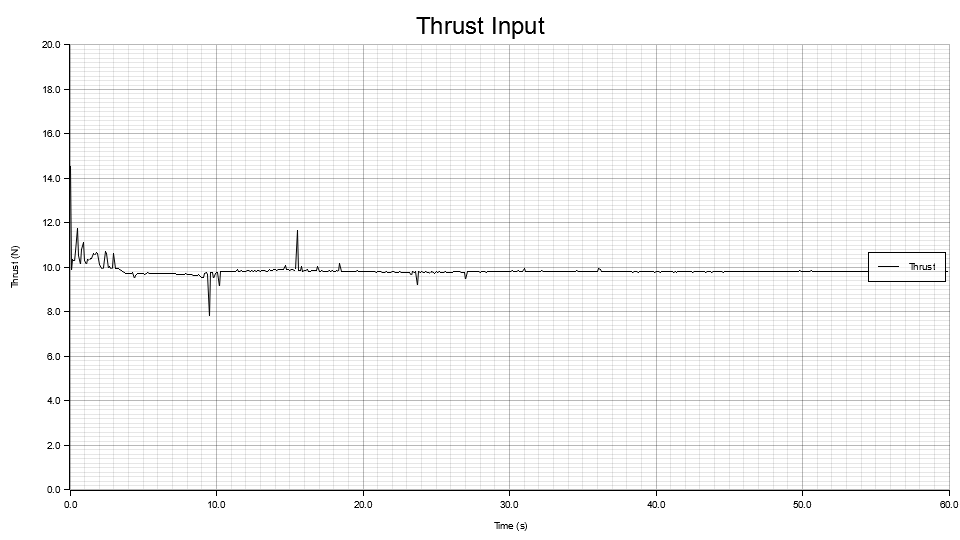
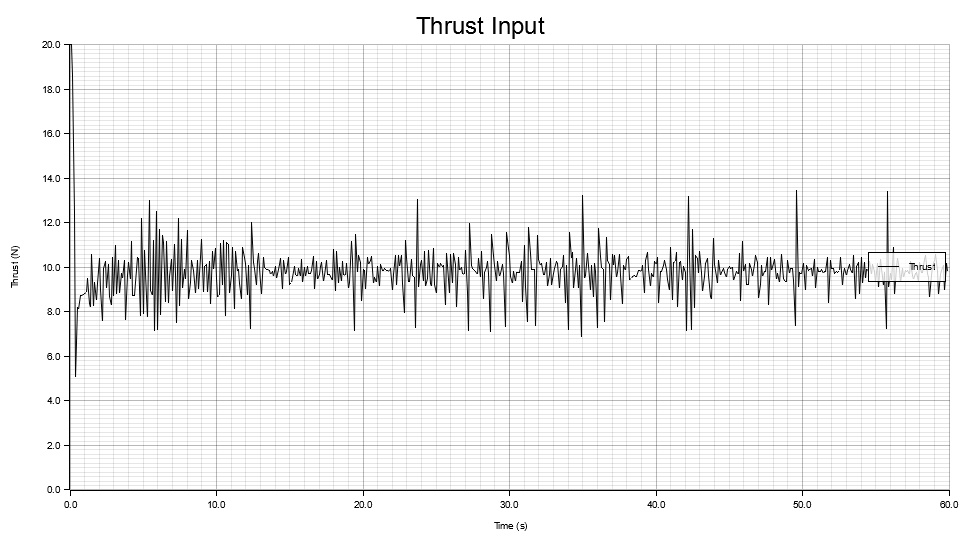
Refactor MPC QP solver and tune optimization parameters
Replaces the old trajectory cost and gradient with new QP cost and gradient functions. Replace automatic differentiation via finite difference with the analytical derivative of the quadratic program's objective function. Tune solver parameters based on max number of iterations and tolerance.

Issues:
Is faster than the old implementation for solving but the control input for thrust is noisier. May consider changing max number of iterations and tolerance to get better control but this will likely result in a slow down in computation.

Changed region(s): [[0.0625, 0.4148, 1.0, 0.6519], [0.0625, 0.3259, 0.0938, 0.3852]]

diff --git a/MPC/src/mpc_crate.rs b/MPC/src/mpc_crate.rs
@@ -5,7 +5,9 @@ use ndarray::{Array1, Array2};
 use ndarray::s;
 use ndarray_linalg::Inverse;
 use ndarray_linalg::Norm;
+use ndarray::ArrayView1;
 use optimization_engine::{panoc::*, *};
+use std::time::Instant;
 
 pub fn dynamics(x: &Array1<f64>, u: &Array1<f64>) -> Array1<f64> {
     // let mut x_next = Array1::<f64>::zeros(x.len());
@@ -354,12 +356,13 @@ fn nmpc_step(x0: &Array1<f64>, U_init: &Vec<Array1<f64>>, xref_traj: &Vec<Array1
     // initialize xs trajectory
     let mut xs = vec![Array1::<f64>::zeros(x0.len()); N + 1];
     let mut U = U_init.clone();
+    let start_time = Instant::now();
     for _ in 0..sqp_iters {
         xs = rollout(x0, &U);
         let (A_seq, B_seq) = linearize_trajectory(&xs, &U);
         let (H, g, dU_min, dU_max, _Su, _Q_bar, _R_bar) = assemble_qp_increment(&xs, &U, &xref_traj, &A_seq, &B_seq, &Q, &R, &QN, &u_min, &u_max);
         let dU0 = Array1::<f64>::zeros(m * N);
-        let dU = solve_qp_pgd(&H, &g, &dU_min, &dU_max, &dU0, 30, alpha_pgd);
+        let dU = solve_qp_pgd(&H, &g, &dU_min, &dU_max, &dU0, 20, alpha_pgd);
         let mut flatU = Array1::<f64>::zeros(m * N);
         // flatten U
         // Flatten U into flatU
@@ -391,120 +394,82 @@ fn nmpc_step(x0: &Array1<f64>, U_init: &Vec<Array1<f64>>, xref_traj: &Vec<Array1
         // test for convergence ?
         
     }
+    // print time taken
+    let duration = start_time.elapsed();
+    println!("PGD solve frequency {:?}Hz", 1.0 / duration.as_secs_f64());
 
     (U, xs)
 }
 
 // Using OpEn to solve
 
-// create cost function (essentialy the same as true_cost)
-pub fn trajectory_cost(x0: &Array1<f64>, U: &Vec<Array1<f64>>, xref_traj: &Vec<Array1<f64>>, Q: &Array2<f64>, R: &Array2<f64>, QN: &Array2<f64>) -> f64 {
-    let xs = rollout(x0, U);
-    let N = U.len();
-    let mut cost = 0.0;
-
-    // add up stage costs
-    for k in 0..N {
-        let x_diff = &xs[k+1] - &xref_traj[k+1];
-        cost += x_diff.t().dot(Q).dot(&x_diff);
-        cost += U[k].t().dot(R).dot(&U[k]);
-    }
-
-    // add terminal cost
-    let xN_diff = &xs[N] - &xref_traj[N];
-    cost += xN_diff.t().dot(QN).dot(&xN_diff);
-
+pub fn QP_cost(H: &Array2<f64>, g: &Array1<f64>, U: &Array1<f64>) -> f64 {
+    let cost = 0.5 * U.t().dot(H).dot(U) + g.t().dot(U);
     cost
 }
-
-pub fn trajectory_cost_gradient(x0: &Array1<f64>, U: &Vec<Array1<f64>>, xref_traj: &Vec<Array1<f64>>, Q: &Array2<f64>, R: &Array2<f64>, QN: &Array2<f64>, grad_U: &mut Vec<Array1<f64>>) {
-    let N = U.len();
-    let m = U[0].len();
-    let eps = 1e-6;
-
-    // compute Jacobian via central difference
-    for k in 0..N {
-        for i in 0..m {
-            let mut u_plus = U[k].clone();
-            let mut u_minus = U[k].clone();
-            u_plus[i] += eps;
-            u_minus[i] -= eps;
-            let mut U_plus = U.clone();
-            let mut U_minus = U.clone();
-            U_plus[k] = u_plus;
-            U_minus[k] = u_minus;
-            let cost_plus = trajectory_cost(x0, &U_plus, xref_traj, Q, R, QN);
-            let cost_minus = trajectory_cost(x0, &U_minus, xref_traj, Q, R, QN);
-            grad_U[k][i] = (cost_plus - cost_minus) / (2.0 * eps);
-        }
-    }
-
-    // tbh i think we can just take matrix derivative of trajectory cost... will need to look into it
+pub fn QP_gradient(H: &Array2<f64>, g: &Array1<f64>, U_flat: &Array1<f64>, grad_U_flat: &mut Array1<f64>) {
+    let grad = H.dot(U_flat) + g;
+    grad_U_flat.assign(&grad);
 }
 
-pub fn OpEnSolve(x0: &Array1<f64>, U: &Vec<Array1<f64>>, xref_traj: &Vec<Array1<f64>>, Q: &Array2<f64>, R: &Array2<f64>, QN: &Array2<f64>, panoc_cache: &mut PANOCCache) -> (Array1<f64>, Array2<f64>) {
+pub fn OpEnSolve(
+    x0: &Array1<f64>,
+    U: &Vec<Array1<f64>>,
+    xref_traj: &Vec<Array1<f64>>,
+    Q: &Array2<f64>,
+    R: &Array2<f64>,
+    QN: &Array2<f64>,
+    panoc_cache: &mut PANOCCache,
+) -> (Array1<f64>, Array2<f64>) {
+    use ndarray::ArrayView1;
 
-    let max_iter = 5;
-    // Dimensions from U
+    // Dimensions
     let N = U.len();
     let m = U[0].len();
     let n_dim_u = N * m;
 
+    // Linearize about current rollout, assemble quadratic program
+    let xs = rollout(x0, U);
+    let (A_seq, B_seq) = linearize_trajectory(&xs, U);
+    // dU bounds are unused for OpEn; pass zeros
+    let (H, g, _dU_min, _dU_max, _Su, _Q_bar, _R_bar) =
+        assemble_qp_increment(&xs, U, xref_traj, &A_seq, &B_seq, Q, R, QN,
+                              &Array1::zeros(m), &Array1::zeros(m));
 
-    // Helpers to reshape flattened vectors
-    let unflatten = |u_slice: &[f64]| -> Vec<Array1<f64>> {
-        let mut out = Vec::with_capacity(N);
-        for k in 0..N {
-            let start = k * m;
-            let end = start + m;
-            out.push(Array1::from(u_slice[start..end].to_vec()));
-        }
-        out
-    };
-    let write_flat = |vecs: &Vec<Array1<f64>>, out: &mut [f64]| {
-        for k in 0..N {
-            let start = k * m;
-            out[start..start + m].copy_from_slice(vecs[k].as_slice().unwrap());
-        }
-    };
-
-    // Gradient closure over slices
+    // Gradient (H u + g) and cost (0.5 u^T H u + g^T u) on flat slices
     let df = |u_slice: &[f64], grad_slice: &mut [f64]| -> Result<(), SolverError> {
-        let Uv = unflatten(u_slice);
-        let mut grad_vec: Vec<Array1<f64>> = vec![Array1::<f64>::zeros(m); N];
-        trajectory_cost_gradient(x0, &Uv, xref_traj, Q, R, QN, &mut grad_vec);
-        write_flat(&grad_vec, grad_slice);
+        let u_view = ArrayView1::from(u_slice);
+        let grad = H.dot(&u_view) + &g;
+        grad_slice.copy_from_slice(grad.as_slice().unwrap());
         Ok(())
     };
-
-    // Cost closure over slices
     let f = |u_slice: &[f64], cost: &mut f64| -> Result<(), SolverError> {
-        let Uv = unflatten(u_slice);
-        *cost = trajectory_cost(x0, &Uv, xref_traj, Q, R, QN);
+        let u_view = ArrayView1::from(u_slice);
+        let Hu = H.dot(&u_view);
+        *cost = 0.5 * u_view.dot(&Hu) + g.dot(&u_view);
         Ok(())
     };
 
-    // Box bounds (must live long enough)
+    // Box bounds on U (same per stage here)
     let mut u_min_flat: Vec<f64> = Vec::with_capacity(n_dim_u);
     let mut u_max_flat: Vec<f64> = Vec::with_capacity(n_dim_u);
-    for i in 0..n_dim_u {
-        if i % 3 == 2 {
-            // thrust
-            u_min_flat.push(0.0);
-            u_max_flat.push(20.0);
-        } else {
-            // gimbals (rad)
-            u_min_flat.push((-10.0_f64).to_radians());
-            u_max_flat.push(( 10.0_f64).to_radians());
-        }
+    for _k in 0..N {
+        // [gimbal_theta, gimbal_phi, thrust]
+        u_min_flat.push((-10.0_f64).to_radians());
+        u_max_flat.push(( 10.0_f64).to_radians());
+        u_min_flat.push((-10.0_f64).to_radians());
+        u_max_flat.push(( 10.0_f64).to_radians());
+        u_min_flat.push(0.0);
+        u_max_flat.push(20.0);
     }
     let bounds = constraints::Rectangle::new(
-        Some(&u_min_flat),
-        Some(&u_max_flat),
+        Some(&u_min_flat[..]),
+        Some(&u_max_flat[..]),
     );
 
+    // Problem and optimizer (reuse cache)
     let problem = Problem::new(&bounds, df, f);
-    let mut panoc = PANOCOptimizer::new(problem, panoc_cache).with_max_iter(max_iter);
+    let mut panoc = PANOCOptimizer::new(problem, panoc_cache).with_max_iter(150);
 
     // Initial guess flattened from U
     let mut u_init_flat: Vec<f64> = Vec::with_capacity(n_dim_u);
@@ -512,13 +477,16 @@ pub fn OpEnSolve(x0: &Array1<f64>, U: &Vec<Array1<f64>>, xref_traj: &Vec<Array1<
         u_init_flat.extend_from_slice(U[k].as_slice().unwrap());
     }
 
-    let status = panoc.solve(&mut u_init_flat).unwrap();
-    // println!("Solver status: {:?}", status);
+    // Solve
+    let _status = panoc.solve(&mut u_init_flat).unwrap();
+    println!("OpEn QP solve frequency: {:?}Hz, After {:?} iterations", 1.0 / _status.solve_time().as_secs_f64(), _status.iterations());
 
-    // First control to apply
+    // Return first control and full sequence reshaped
     let u_seq = Array1::from(u_init_flat);
-    let u_apply = u_seq.slice(s![0..3]).to_owned();
-    (u_apply, Array2::from_shape_vec((N, m), u_seq.to_vec()).unwrap())
+    let u_apply = u_seq.slice(s![0..m]).to_owned();
+    let U_seq = Array2::from_shape_vec((N, m), u_seq.to_vec()).unwrap();
+
+    (u_apply, U_seq)
 }
 
 // Main MPC function to be called externally

diff --git a/MPC/src/main.rs b/MPC/src/main.rs
@@ -64,8 +64,8 @@ fn main() {
     let mut x_history = Vec::with_capacity(iters);
     let mut u_history = Vec::with_capacity(iters);
 
-    let tolerance = 1e-6;
-    let lbfgs_memory = 10;
+    let tolerance = 5e-4;
+    let lbfgs_memory = 20;
     let max_iter = 1;
     let n_dim_u = m * n_steps;
     let mut panoc_cache = optimization_engine::panoc::PANOCCache::new(n_dim_u, tolerance, lbfgs_memory);
@@ -79,7 +79,7 @@ fn main() {
         // let mut u_warm_vec: Vec<Array1<f64>> = u_warm.axis_iter(ndarray::Axis(0)).map(|row| row.to_owned()).collect();
         // let (u_warm_vec, x_new, u_apply) = mpc_main(&x, &mut u_warm_vec, &xref_traj_vec, &q, &r, &qn, &u_min, &u_max, 2, 0.05);
         
-        // solve using OpEn
+        // OR we solve using OpEn
         let (u_apply, u_warm) = mpc_crate::OpEnSolve(&x, &u_warm.axis_iter(ndarray::Axis(0)).map(|row| row.to_owned()).collect(), &xref_traj_vec, &q, &r, &qn, &mut panoc_cache);
         
         u_history.push(u_apply.clone());
